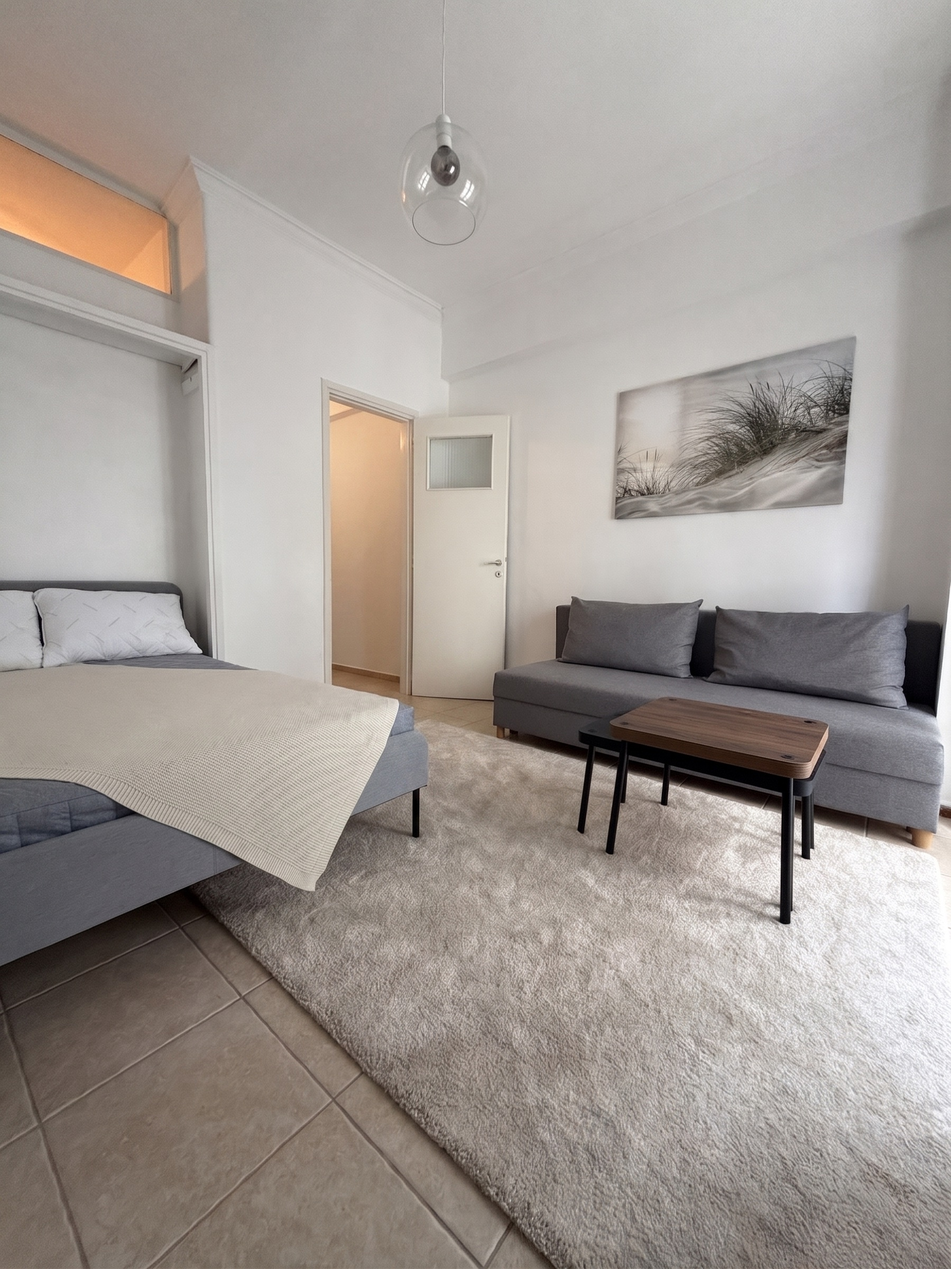
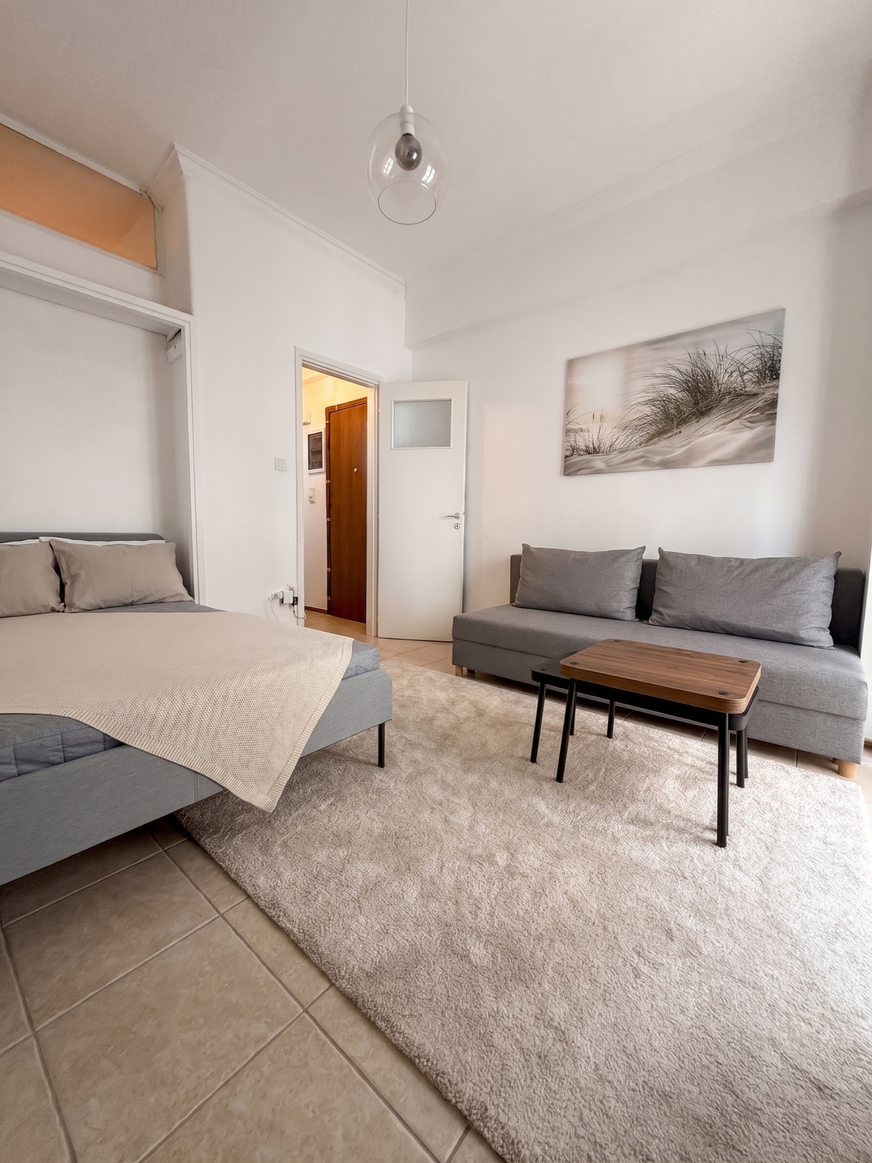
Swap gallery photos with new set and drop unused apt-* files
Replace apt-04/07/08/09/10/11 with compressed JPEGs sourced from the
new 1-6.png uploads. Remove apt-01/02/03/05/06 which the gallery no
longer references, and sync README to match.

diff --git a/public/images/README.md b/public/images/README.md
@@ -1,11 +1,14 @@
 # Apartment photos
 
-Drop your photos here with these exact filenames (the site picks them up automatically):
+Gallery (see `src/components/GalleryGrid.jsx`):
 
-- `apt-01.jpg` — large / main shot (e.g. living room, balcony view)
-- `apt-02.jpg` — smaller shot 1 (e.g. bedroom)
-- `apt-03.jpg` — smaller shot 2 (e.g. kitchen)
+- `apt-11.jpg` — bed
+- `apt-04.jpg` — sofa
+- `apt-07.jpg` — dining
+- `apt-08.jpg` — kitchen
+- `apt-09.jpg` — bathroom
+- `apt-10.jpg` — hallway
 
-**Recommended:** 1600×1200 px or larger, JPEG, ~80% quality, under ~500 KB each.
+**Recommended:** max ~2200 px on the longest side, JPEG ~80–85% quality, under ~1 MB each.
 
 While no photos are present, the site falls back to a neutral placeholder image.
